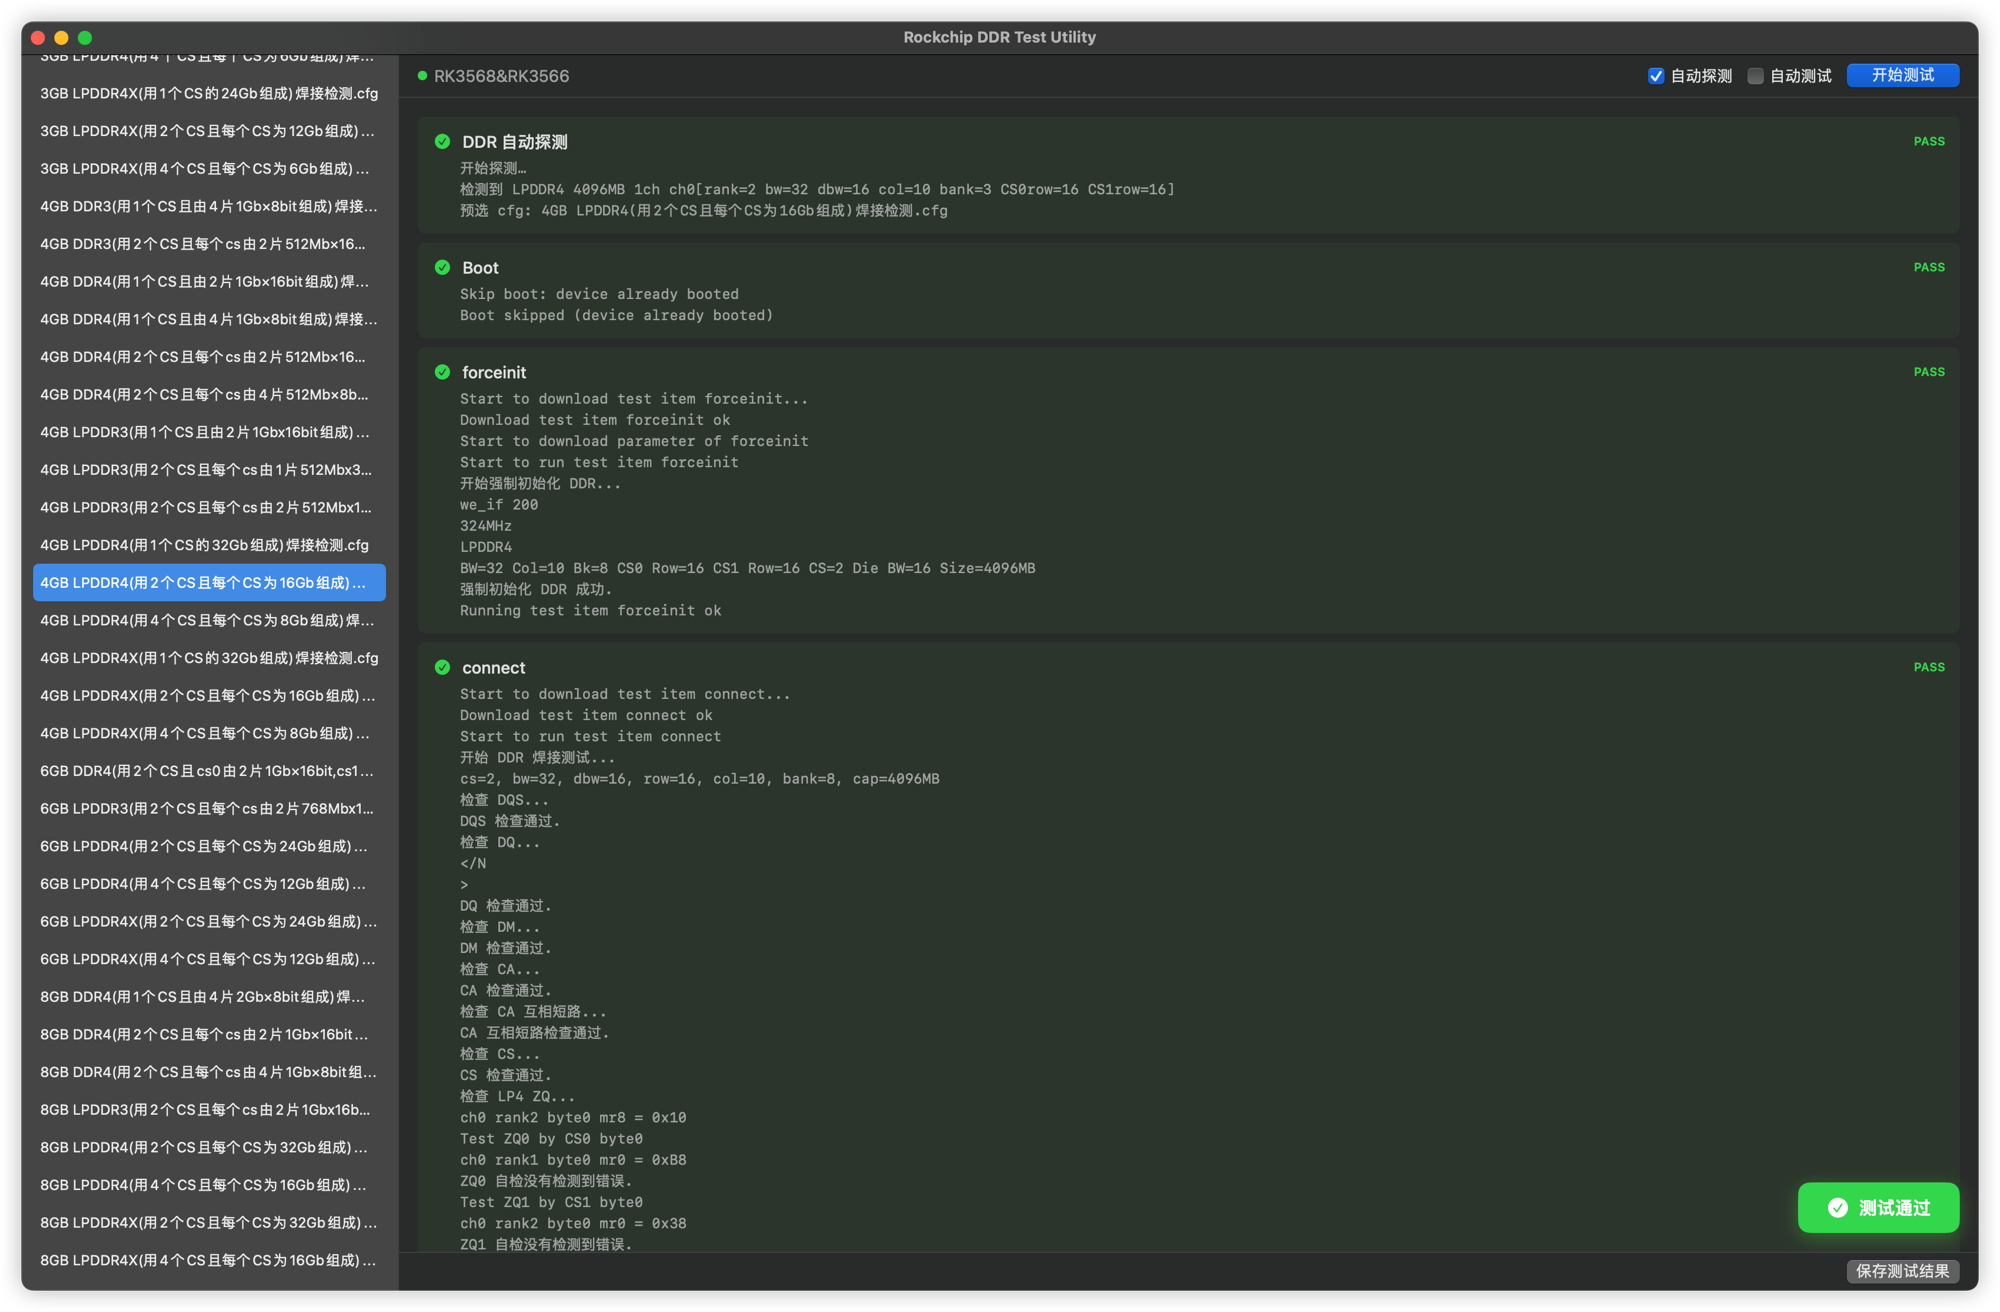
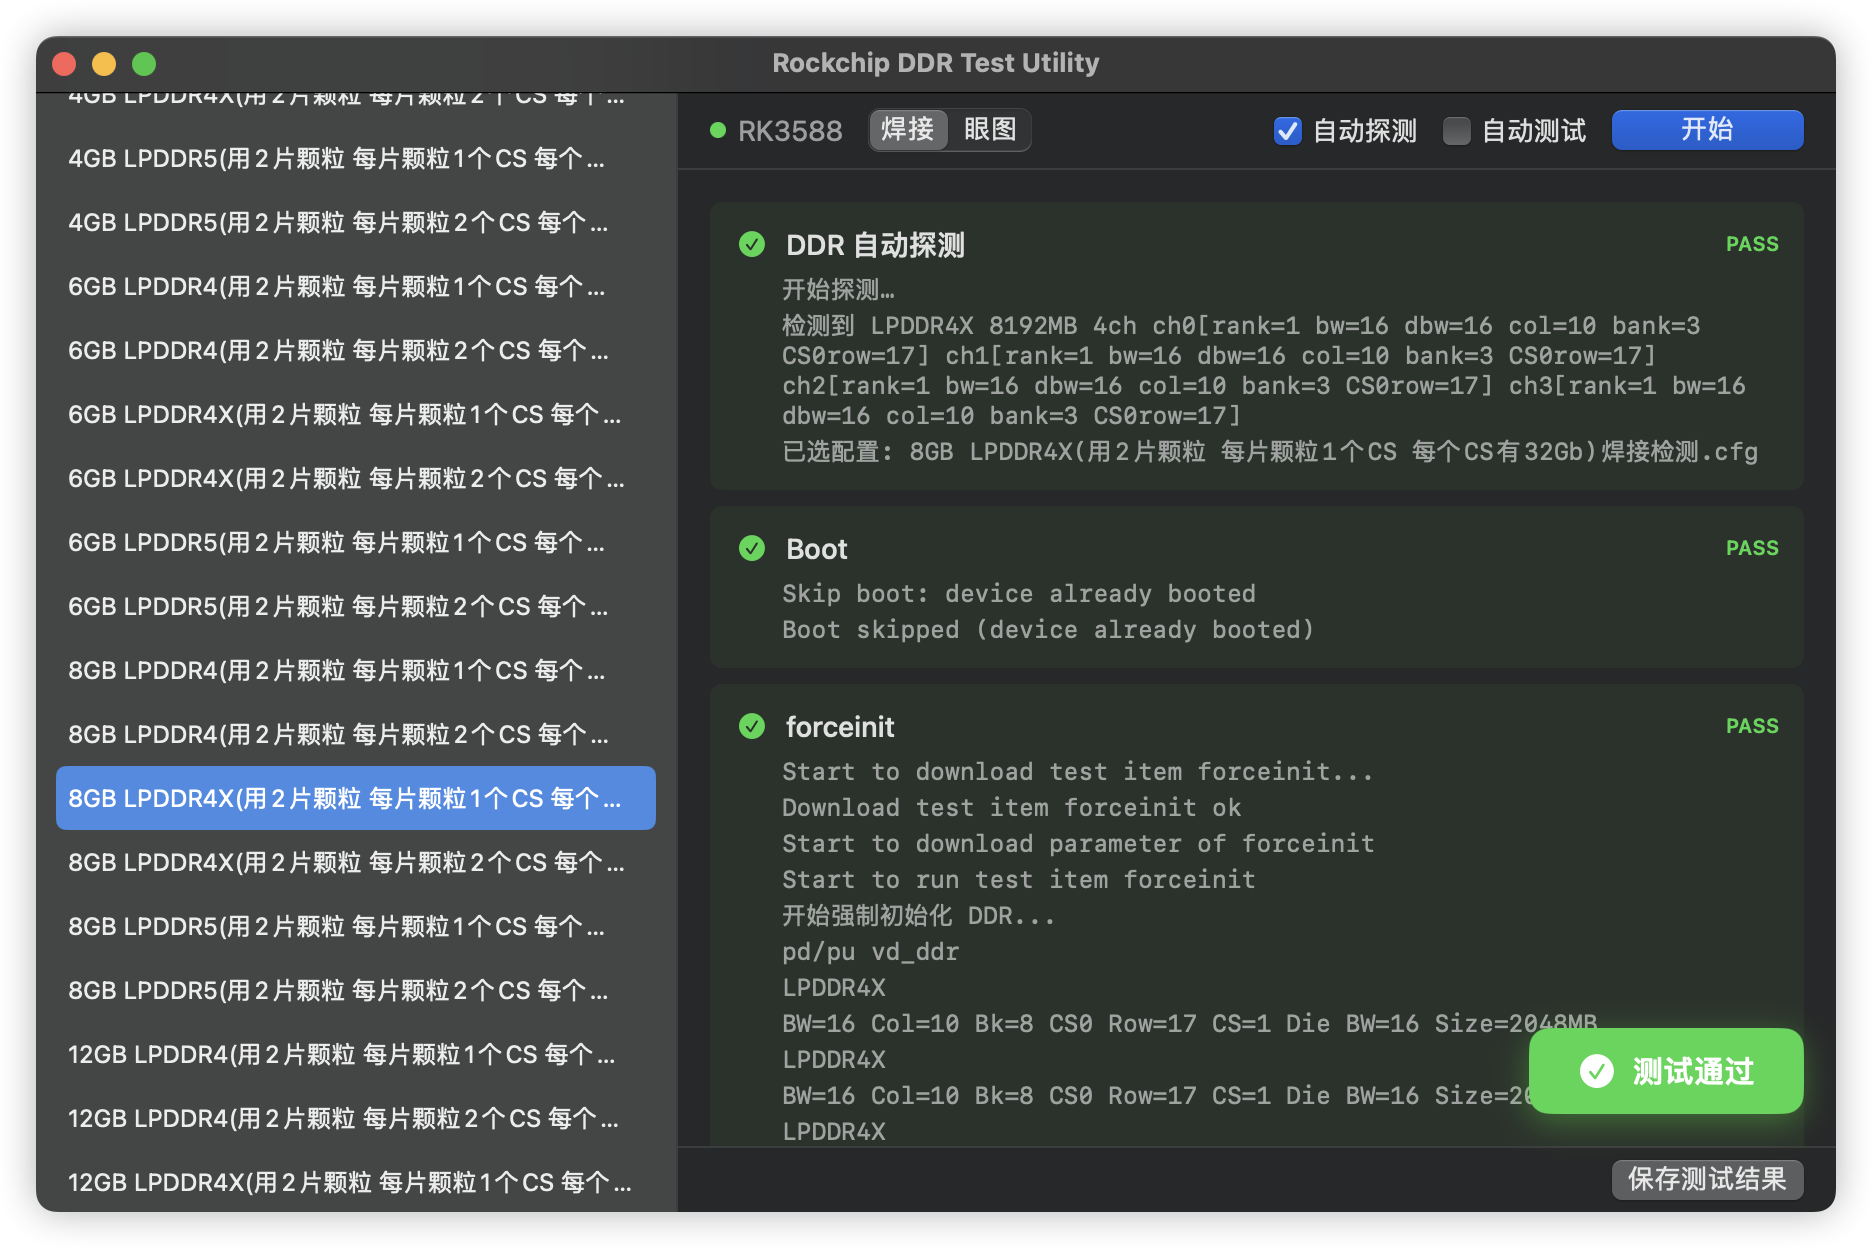
docs: rewrite README for v2.3
The README had drifted two releases behind (last touched at v2.0):

- CLI: --detect-then-test no longer exists; document the actual
  --detect / --solder / --eyescan modes plus --json and exit codes 0/1/2
- Eye-scan (GUI 眼图 mode, --eyescan) was undocumented entirely
- Test-flow diagram claimed printf decides PASS/FAIL; the verdict actually
  comes from RKU_TestDeviceReady's status/result words (printf is display-only)
- "probes on plug-in" contradicted the defaults: 自动探测 on (gates whether
  开始 detects), 自动测试 off (gates whether plug-in starts a run by itself)
- Download: add the standalone CLI tarball alongside the DMG
- Config discovery: add the 4th level (compiled-in fallback)
- SoC table: split into 焊接 / 自动探测 / 眼图 columns; note the configs with
  no PID mapping (RK3028, RK3528, RV1126B, RV1126BP) and RK3506 (PID, no configs)
- Screenshot refreshed to the current UI (mode selector)

diff --git a/README.md b/README.md
@@ -1,41 +1,116 @@
 # Rockchip DDR Test Utility for macOS
 
-A macOS native tool for testing DDR memory soldering quality on Rockchip SoCs via USB.
+A macOS native tool for testing DDR memory on Rockchip SoCs **over pure USB** — no serial/UART, no flashing, nothing written to the board's storage. The device stays in Maskrom the whole time.
 
 ![Rockchip DDR Test Utility](assets/screenshot.png)
 
+## What it does
+
+Three checks, all driven from the same USB session:
+
+| Check | GUI | CLI | Verdict |
+|-------|-----|-----|---------|
+| **DDR 自动探测** — probe the DRAM geometry (type / capacity / channels / per-channel rank, col, bank, row, bus width, die width) and match it to a test config | runs as the first step of 焊接 | `--detect` | a unique cfg match |
+| **焊接检测** — the soldering-quality test (DQS / DQ / DM / CA / CS / ZQ checks) | 焊接 mode | `--solder` | device result code == 0 |
+| **DQ 眼图** — per-DQ eye / margin scan (rx + tx) | 眼图 mode | `--eyescan` | scan completed **and** every `all result:` line passes |
+
+Detection feeds the soldering test: it preselects the exactly-matching config, then the test runs on the same USB session with the already-resident loader (no reboot in between).
+
 ## Supported SoCs
 
-| SoC | USB PID |
-|-----|---------|
-| RK3588 | 0x350B |
-| RK3576 | 0x350E |
-| RK3568 / RK3566 | 0x350A |
-| RK3562 | 0x350C |
-| RK3506 | 0x350F |
-| RK3399 | 0x330C |
-| RK3368 | 0x330A |
-| RK3288 | 0x320A |
-| RK3326 / PX30 | 0x330D |
-| RK3328 | 0x320C |
-| RK322X | 0x320B |
-| RK3128 | 0x310C |
-| RK3036 | 0x301A |
-| RV1126 | 0x110C |
+Every SoC below ships soldering-test configs. The extra columns mark the SoCs that additionally support DDR auto-detect and eye-scan.
+
+| SoC | USB PID | 焊接 | 自动探测 | 眼图 |
+|-----|---------|:----:|:-------:|:----:|
+| RK3588 | 0x350B | ✅ | ✅ | ✅ |
+| RK3576 | 0x350E | ✅ | ✅ | ✅ |
+| RK3568 / RK3566 | 0x350A | ✅ | ✅ | ✅ |
+| RK3288 | 0x320A | ✅ | ✅ | — |
+| RK3562 | 0x350C | ✅ | — | — |
+| RK3399 | 0x330C | ✅ | — | — |
+| RK3368 | 0x330A | ✅ | — | — |
+| RK3326 / PX30 / RK3326S / PX30S | 0x330D | ✅ | — | — |
+| RK3328 / rk322xh | 0x320C | ✅ | — | — |
+| RK322X | 0x320B | ✅ | — | — |
+| RK3308 | 0x3308 | ✅ | — | — |
+| RK3188 | 0x310B | ✅ | — | — |
+| RK3168 | 0x300B | ✅ | — | — |
+| RK3128 | 0x310C | ✅ | — | — |
+| RK3126 / RK3126C | 0x310D | ✅ | — | — |
+| RK3066 / RK3066A | 0x300A | ✅ | — | — |
+| RK3036 | 0x301A | ✅ | — | — |
+| RK3026 / RK3028A | 0x292C | ✅ | — | — |
+| RK2926 / RK2928 | 0x292A | ✅ | — | — |
+| RK29 | 0x290A | ✅ | — | — |
+| RV1126 | 0x110C | ✅ | — | — |
+
+Without auto-detect the config must be picked by hand from the sidebar; the test itself works the same.
+
+`DDRTestFiles/` also carries configs for **RK3028, RK3528, RV1126B, RV1126BP**, which currently have no maskrom-PID mapping — a connected board of those SoCs is listed but its SoC can't be identified automatically. **RK3506** (0x350F) is recognized but ships no configs.
 
 ## Requirements
 
 - macOS 12.0 (Monterey) or later
 - Apple Silicon (arm64) or Intel (x86_64)
-- Rockchip device connected in USB download mode (VID 0x2207)
+- Rockchip device connected in USB download mode (VID 0x2207, Maskrom)
 
 ## Download
 
-Download the latest `RockchipDDRTestUtility.dmg` from [Releases](../../releases).
+From [Releases](../../releases):
 
-1. Open the DMG
-2. Drag **Rockchip DDR Test Utility.app** to **Applications**
-3. Launch the app — test configuration files are bundled inside the app
+- **`RockchipDDRTestUtility.dmg`** — the GUI app. Open it, drag **Rockchip DDR Test Utility.app** to **Applications**, launch. Test configs are bundled inside the app.
+- **`RockchipDDRTestUtilityCLI-macos.tar.gz`** — standalone CLI. Universal binary + its libusb dylib, with the whole config library compiled in, so it runs from anywhere with no Homebrew install and no `DDRTestFiles/` next to it.
+
+## Usage (GUI)
+
+1. Connect a Rockchip device via USB in Maskrom / download mode
+2. Pick a mode: **焊接** (soldering test) or **眼图** (eye-scan). 眼图 is greyed out on SoCs that ship no eye-scan config.
+3. Click **开始**
+   - 焊接: auto-detect probes the DRAM, preselects the exactly-matching config, and the test runs straight after it
+   - 眼图: the firmware self-trains the DDR and scans every DQ — no config selection involved (the sidebar is hidden)
+4. Watch the log area — detection appears as the first card, followed by the test steps
+5. Click **保存测试结果** / **保存眼图日志** to export
+
+Two optional toggles (焊接 mode only, defaults are the normal factory setup):
+
+- **自动探测** (on by default) — gates whether **开始** attempts detection at all. Turn it off to run a hand-picked config from the sidebar.
+- **自动测试** (off by default) — when on, plugging a board in starts the run by itself. When off, plug-in is passive: the tool never touches the board until you click **开始**.
+
+## Usage (CLI)
+
+```bash
+RockchipDDRTestUtilityCLI --list                  # list connected Rockchip devices
+RockchipDDRTestUtilityCLI --detect                # DDR 自动探测 (geometry + cfg match)
+RockchipDDRTestUtilityCLI --solder                # 焊接检测 (detect → test → reboot)
+RockchipDDRTestUtilityCLI --eyescan               # DQ 眼图
+RockchipDDRTestUtilityCLI --help
+```
+
+Options: `--device-id <id>` (pick one of several boards), `--detect-cfg <path>` (override the detect cfg), `--eye-timeout <seconds>`, `--quiet`, and `--cfg <path> [--repeat N]` / `--probe-bulk` for diagnostics.
+
+### Machine-readable output
+
+`--json` emits exactly one JSON object on stdout; every human-facing log line goes to stderr. The device's own output is embedded, so the JSON is self-contained — no side files to collect and no printf scraping.
+
+```bash
+RockchipDDRTestUtilityCLI --solder --json
+```
+
+```jsonc
+{
+  "soc": "RK3568&RK3566", "pid": "0x350A", "device": "…",
+  "detect":  { "type": "LPDDR4", "capacityMB": 4096, "channels": 1, "csPerDie": 2,
+               "sysRegVersion": 3, "geometry": [ /* per-channel rank/col/bank/row/bus/die */ ],
+               "cfg": "…焊接检测.cfg", "tier": "uniqueByCoarse", "candidates": 1 },
+  "solder":  { "pass": true, "outcome": "…", "state": "…", "cfg": "…",
+               "bootSucceeded": true, "log": "…device USB printf…" },
+  "ok": true, "error": null, "elapsedMs": 12345
+}
+```
+
+`--eyescan` fills `eyescan: { go, bytes, transcript }` instead.
+
+Exit codes: **0** the requested check passed · **1** error (no device / parse / transport / unsupported SoC) · **2** fail (soldering FAILED, eye-scan not PASS, or detect found no unique cfg).
 
 ## Build from Source
 
@@ -44,85 +119,61 @@ brew install libusb
 swift build -c release
 ```
 
-### Run GUI (development)
-
 ```bash
-swift run RockchipDDRTestUtility
-```
-
-### Run CLI
-
-```bash
-swift run RockchipDDRTestUtilityCLI --list
-swift run RockchipDDRTestUtilityCLI --cfg "/path/to/test.cfg"
-swift run RockchipDDRTestUtilityCLI --detect            # auto-detect DDR + shortlist matching cfg
-swift run RockchipDDRTestUtilityCLI --detect-then-test  # detect → run matched test on one session (no reboot)
-```
-
-### Build Universal DMG
-
-```bash
-bash scripts/package.sh
-```
-
-### Run Tests
-
-```bash
-swift test
+swift run RockchipDDRTestUtility                     # GUI (development)
+swift run RockchipDDRTestUtilityCLI --list           # CLI
+swift test                                           # tests (no USB hardware needed)
+bash scripts/package.sh                              # universal DMG + standalone CLI tarball
 ```
 
 ## Test File Structure
 
-The app bundles test configuration files in `DDRTestFiles/` with one subdirectory per SoC:
+Configs live in `DDRTestFiles/`, one subdirectory per SoC:
 
 ```
 DDRTestFiles/
   RK3588/
     4GB LPDDR4.cfg
     8GB LPDDR4X.cfg
+    DDR自动探测.cfg        # detect payload — driven by the detector, not user-selectable
+    DDR眼图.cfg            # eye-scan payload — same
   RK3568&RK3566/
     2GB DDR4.cfg
   ...
 ```
 
-At runtime, `CfgRepository` discovers files from:
+`CfgRepository` resolves the root in this order:
+
 1. App bundle: `Contents/Resources/DDRTestFiles/` (DMG install)
 2. Executable directory: `DDRTestFiles/` next to the binary (CLI / development)
-3. Current working directory: `./DDRTestFiles/` (fallback)
-
-## Usage
-
-1. Connect a Rockchip device via USB (Maskrom / download mode, VID 0x2207)
-2. **DDR auto-detect** (on by default) probes the board's DRAM over USB and preselects the exactly-matching test config — no manual selection needed
-3. Click **开始测试** (Start Test) to run it — or enable **自动测试** (Auto Test) so it runs automatically right after detection
-4. View results in the log area (the detection step appears as the first card, followed by the test steps)
-5. Click **保存测试结果** (Save Result) to export a test report
-
-The two toggles are optional conveniences with sensible defaults; a new user just connects the board and clicks **开始测试**. To pick a config by hand, turn **自动探测** off and select from the sidebar list.
+3. Current working directory: `./DDRTestFiles/`
+4. Compiled-in fallback: the CLI embeds the whole library, extracted on demand — this is what makes the standalone CLI a single file. A real on-disk directory always wins.
 
 ## DDR Auto-Detect
 
-On plug-in, the tool identifies the board's DDR geometry **over pure USB** (no serial/UART) and auto-selects the matching soldering-test config:
+The tool identifies a board's DRAM geometry over pure USB:
 
-1. Downloads the Rockchip auto-probing DDR init blob → the SoC detects the DRAM and writes its geometry to the PMU `OS_REG` (SYS_REG) words
-2. Loads the DDR Test Tool loader + a tiny probe that dumps `OS_REG` back over USB
-3. Decodes the geometry (DRAM type, total capacity, per-die CS) — SYS_REG **V3** (RK356x/RK3576/RK3588) or **V1** (RK3288)
-4. Matches it **exactly** (type + capacity + per-die CS) against the SoC's soldering-test configs and preselects the result
+1. Downloads Rockchip's auto-probing DDR init blob → the SoC detects the DRAM and writes its geometry to the PMU `OS_REG` (SYS_REG) words
+2. Loads the DDR Test Tool loader plus a small probe that dumps `OS_REG` back over USB
+3. Decodes it — SYS_REG **V3** (RK356x / RK3576 / RK3588) or **V1** (RK3288)
+4. Matches **exactly** on DRAM type + total capacity + per-die CS against that SoC's soldering configs; if several configs share a name, a second pass narrows them by each candidate's `forceinit` parameter geometry
 
-Detection succeeds only on an exact match; otherwise the tool asks for manual selection (never silently runs a wrong config). The whole detect payload ships as a single self-contained `DDR自动探测.cfg` per SoC (not user-selectable — it's driven by a dedicated detector, not the test engine).
+A config is set only on a unique match. Anything else (ambiguous / no match) stops and asks for manual selection — it never silently runs a wrong config. The whole detect payload ships as one self-contained `DDR自动探测.cfg` per SoC, excluded from the selectable test list and driven by a dedicated detector rather than the test engine.
 
-The subsequent test reuses the same USB session with the already-resident loader (no reboot between detect and test), so detection flows straight into testing.
+## Eye-Scan
 
-**Auto-detect supported on:** RK3568 / RK3566 (0x350A), RK3588 (0x350B), RK3576 (0x350E), RK3288 (0x320A). Other SoCs fall back to manual config selection.
+`--eyescan` / 眼图 mode runs a per-DQ eye / margin scan from the SoC's packaged `DDR眼图.cfg`, streaming the firmware transcript back over USB. Availability is decided purely by whether that config ships for the connected SoC — adding a new eye-scan SoC means dropping in a `…眼图.cfg`, no code change.
+
+The scan is not a pass/fail soldering check: it reports rx / tx margin per DQ. The PASS verdict requires the `all dq eye scan done` marker **and** every per-channel `all result:` line to read pass.
 
 ## Architecture
 
 | Module | Description |
 |--------|-------------|
-| `DDRCore` | Config parsing, binary `.cfg` parser, test execution engine, result writer; DDR auto-detect logic — `DetectProfile` (per-SoC params), `OsRegDecoder` (SYS_REG V1/V3 decode), `CfgAutoSelect` (exact-match cfg ranking) |
-| `DDRUSB` | USB transport via libusb (Rockchip protocol); `DdrDetector` (auto-detect driver) |
+| `DDRCore` | Config parsing, binary `.cfg` parser, test execution engine, result writer; auto-detect logic — `DetectProfile` (per-SoC params), `OsRegDecoder` (SYS_REG V1/V3 decode), `CfgAutoSelect` (exact-match cfg ranking + tie-break) |
+| `DDRUSB` | USB transport via libusb (Rockchip protocol); `DdrDetector` (auto-detect driver), `EyescanRunner` (eye-scan transcript stream) |
 | `RockchipDDRTestUtility` | SwiftUI GUI application |
-| `RockchipDDRTestUtilityCLI` | Command-line interface (`--list`, `--cfg`, `--detect`, `--detect-then-test`) |
+| `RockchipDDRTestUtilityCLI` | Command-line interface (`--detect`, `--solder`, `--eyescan`, `--list`, `--cfg`, `--json`) |
 
 ### Test Flow
 
@@ -133,7 +184,7 @@ Download Download  Download
   ↓        ↓          ↓
   Run      Run        Run
   ↓        ↓          ↓
-Printf   Printf     Printf → PASS/FAIL
+ Poll     Poll       Poll   RKU_TestDeviceReady → PASS/FAIL
 ```
 
-Each stage must pass before the next begins. Failure at any stage stops the test.
+Each stage must pass before the next begins; a failure stops the test. The verdict comes from the status and result words of the device's `RKU_TestDeviceReady` response — **the device's printf output is display-only and never decides pass/fail** (this mirrors the Windows DDR_UserTool, which reads printf on a separate thread purely for display).
